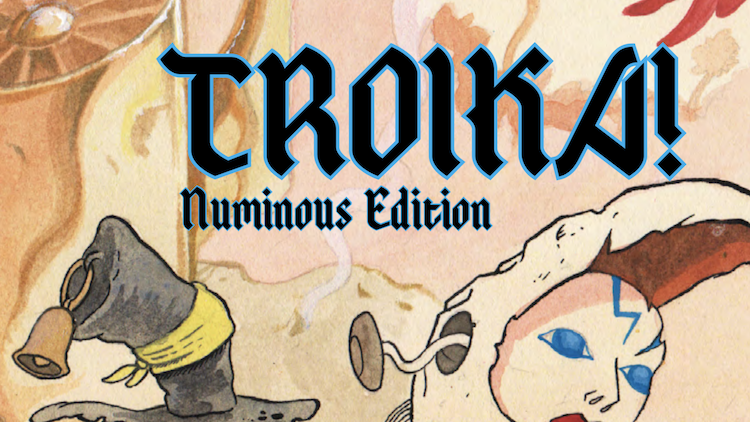
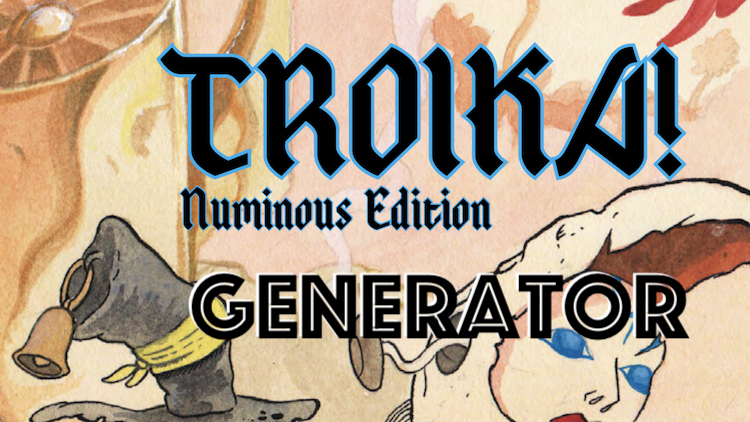
troika tweaks and flash reviews

diff --git a/_pages/troika.js b/_pages/troika.js
@@ -162,8 +162,10 @@ function flipCoin(token) {
       bgImage = "url('/images/BackToken.png')";
       coinTxt = "End Round";
       bgColor = "silver";
-      turnText = "<p style=\"margin: unset;\">" + turnNumber + ". End Round" +
-        "</p>" + turnText;
+      turnText = "<p style=\"margin: unset;\"><strong>Resolve any 'Per Round', or 'End of Round' effects.<br>Adjust the number above: adding new combatants, removing dead ones.<br>Click 'New Round'.</strong></p>" +
+      "<p style=\"margin: unset;\">" + turnNumber + ". End Round" +
+        "</p>";
+      
       break;
 
     case ("New Round"):

diff --git a/_posts/2019-03-19-FlashReviews.md b/_posts/2019-03-19-FlashReviews.md
@@ -1,94 +1,95 @@
 ---
-title: Cool Crap I've Made 
+title: Flash Reviews 
 layout: post
-date: 2019-03-18
+date: 2019-03-19
 image: images/hsi.png
 comments: true
-published: true
+published: false
 categories: Tabletop
-tags: generators supplements reviews
+tags: reviews
 ---
 
-March was a VERY productive month for me. But none of the stuff I did really made it into a blog post, so I'm going to summarize it here.
+So I have bought a LOT of stuff. And I probably won't get to read/play all of it any time soon.
 
-# [Bone Marshes](/bone-marshes)
+SO! in order to turn cleaning into content, here's a bunch of quick impressions/surface thoughts of my backlog.
 
-[![bonemarshes_KS.jpg](/images/posts/bonemarshes_KS.jpg)]((/bone-marshes))
+I will label every item as one of:
 
-Progress continues apace! I've been doing some cool video-workshops with [Joe Banner](https://joebanner.co.uk/), our layout wizard.
+- **Will Play.** I'll play this eventually, and will review it after I play it once or twice.
+- **Will Review.** I'll read it later and post a longer review on my site. Might play, might not.
+- **Archive.** I'm going to move it to the archive for now. Maybe I'll pick it up again, maybe not. Nothing really grabbed me.
+- **Delete.** Definitely won't ever read or play this. Sadness.
 
-**[Workshop 1](https://www.youtube.com/watch?v=HHT_WURk3NY)**
+These labels are NOT a reflection of quality, just my interest in playing/reading/reviewing them further. I only have so much time. For some reason or another I bought them; so if they are on this list, they piqued my interest already.
 
-**[Workshop 2](https://www.youtube.com/watch?v=QnF6Y6mpfrs)**
+If I miss something, or get things completely wrong, let me know in the comments! I'd love an excuse to take a closer look at this stuff.
 
-I enjoy these discussions, and hopefully it's a good peek behind the curtain of where Bone Marshes is going.
+## Troika! (Will Play)
 
-I'm also planning to re-do all of the maps to make them more defined and clear.
+This thing is wildly imaginative! Holy crap. Flavor and lore ooze out of every page, and drop down all over my brain. _That was a weird sentence...whatever, just keep going._
 
-OH! And I have an idea for making the Cattail Bandits more fleshed out and interesting. Probably will do a future blogpost on that.
+Not only are the classes brilliant, but the creature and spell descriptions are amazing! listen to the description for "Darksee":
 
-# [Reviews](/david/extremely-interesting-adventures)
+> "The wizard reaches into their sockets and extricates their eyes. Thus freed, the dark void behind can see perfectly well in pitch blackness and suffer excruciating pain in light (-4 penalty to all rolls). Be careful not to lose those eyeballs as re-inserting them is the only way to end the Spell."
 
-Been playing a LOT of RPGs lately, and was able to add a bunch of new adventure reviews! So that's nice.
+I can't wait to get this to the table. I also made a fancy [generator/turn tracker](/troikagenerator) for it!
 
-- [The Sunken Fort](/david/extremely-interesting-adventures#the-sunken-fort)
-- [The Mysterious Menagerie of Doctor Orville Boros](/david/extremely-interesting-adventures#the-mysterious-menagerie-of-doctor-orville-boros)
-- [Stygian Garden of Abelia Prymm](/david/extremely-interesting-adventures#stygian-garden-of-abelia-prymm)
+## TinyDungeon 2E (Archive)
 
-# Random Generators
+This made the rounds on KS, and while nothing really grabbed me at first I've been curious to check it out.
 
-Ah, my recent obsession. I made a nice, mobile friendly character generator for Bone Marshes and then I just...kept...making them! While there are a lot of random generators and tables out there, very few look nice on mobile screens, so I wanted to focus on that aspect.
+Mechanics are simple, almost boringly so. Roll 1d6, 2d6, or 3d6 depending on skills and penalties. If any of the dice land on 5 or 6 you succeed. Successful attacks deal 1 damage. Traits grant additional powers or advantages. 
 
-## [Monster Parts](/monsterparts)
+Most of the value in the book comes from the 20 "micro-settings". These tweak the rules a bit, are set in different worlds/realities/timezones.
 
-[![monsterparts.jpg](/images/monsterparts.jpg)](/monsterparts)
+It looks....boring. But maybe some of the microsettings are fun. I would grab this if I wanted to play a REALLY simple RPG. Archived.
 
-I was taking with Curio on the Knave Discord about monsters. We wanted to brainstorm some interesting creatures ideas and maybe come up with some kind of bestiary or list of creatures.
+## Spire (Will Review)
 
-Curio mentioned that they would like a random generator of monster characteristics and I agreed wholeheartedly. Curio came up with most of the content, and did most of the work; I just made the generator and hosted it.
+Gosh this book is pretty. The artwork by Adrian Stone sold me completely. 
 
-But I'm still proud of what we made, and hope it inspires a lot of cool creatures!
+Although I like it I don't know if I'll play it. It has a darker tone than something like Blades in the Dark (one of my faves). Dark to the point of heaviness. I can see this bringing up some deep issues during play.
 
-## [Hot Springs Island Generator](/hotspringsgenerator)
+And that is not a bad thing! But often I play with co-workers or strangers; not a lot of room for depth. Definitely want to give it a good read-through!
 
-[![hsi.png](/images/hsi.png)](/hotspringsgenerator)
+## Nightmares Underneath (Delete)
 
-You already know I'm a HUGE fan of Hot Springs Island. It's the one campaign I've played the most, and enjoyed the most. So wildly imaginative, easy to use, and plain fun.
+I actualy like a lot of things about this book, but mostly the concept: Dungeons are actually portals to nightmares that must be explored and closed.
 
-But rolling up encounters is a pain. Lots of tables, lots of potential outcomes. I've been wanting a better generator for a looong time. And now I have one!
+Very cool.
 
-## [Troika Character Generator and Turn Tracker](/troikagenerator)
+But the book seems overly complex and fiddly for most of the stuff I play. 
 
-[![troika.png](/images/troika.png)](/troikagenerator)
+Patrick Stuart did a better review (and more complete) [here](http://falsemachine.blogspot.com/2017/04/a-review-of-nightmares-underneath-by.html).
 
-So this is a weird one. Here's the sequence of events:
+## Macchiato Monsters (Delete)
 
-1. Hear about Troika. Mental note to read later.
-2. Forget mental note.
-3. Hear about new edition of Troika. Mental note to back.
-4. Forget mental note.
-5. New edition comes out. Looks beautiful, fresh, hilarious.
-6. Decide to make a quick generator for this new game, see if I can draw all the new Troika fans to my website.
-7. Read the book.
-8. Definitely gonna make a character generator....but what's this? WEIRD INITIATIVE RULES! WOW! Tokens in bags coolness.
-9. Don't have any tokens. Sadness.
-10. IDEA! I'll make a nice initiative tracker for mobile devices.
-11. Spend 10 hours making a stupid coin-flip animation.
-12. Finish the rest of the generator/tracker soon after.
-13. Profit?!
+I wanted to like this more. But I've read SO MANY OSR systems over the past 6 months that it takes a lot to jump out an grab me. 
 
-If you don't know anything about Troika, generator a few characters to get a feel for the humor/creativity of this awesome game. If you like Troika, then I hope you find this tool useful.
+Sorry Macchiato Monsters. It looks like a solid game, all the bells and whistles. But nothing that exploded my brain and made me want to run to the table. 
 
-That's all for generators (in March anyway). What else?
+## Red Markets (Delete)
 
-# Gambling mini-game
+I was never really into zombie survival games, but an RPG based around econonics intrigued me. Sadly it seems REALLY fiddly and book-keepy. Not that I should be surprised...I don't really know what I was expecting.
 
-This is a small thing, but our group had so much fun with it that I wanted to share. It's built for a shady/unfair kind of gambling casino thing.
+HOWEVER! The first 100 pages or so are an incredible short-story about how The Crash happened, and what the world looks like now. I read that whole section and couldn't tear myself away. If you like zombie fiction, it's worth the purchase just for the introduction.
 
-The best part about these rules is that while a single player CAN win big, over time the house pretty much takes everything.
+## Into the Wyrd and Wild (Will Play)
 
-PROTIP: Don't tell your players about the cash-out price until they try to cash out. It really drives home how unfair this place is!
+I already wrote a random generator for this...just waiting for it to be publicly available before I write a longer review and take it for a spin.
 
-You can find the [PDF of these gambling rules here](/files/HotSpringsReference.pdf).
+## Ravenloft - I6, AD&D (Will Play)
 
-![tranquilgambling.png](/images/posts/tranquilgambling.png)
+I want to play this so bad. I might tweak some of the encounter tables to make it more spicy...but still. 
+
+That castle map is GORGEOUS! and I want to try it. 
+
+SOOOOON! Hopefully.
+
+## Expedition to Barrier Peaks (Archive)
+
+I bought this one after I read Ravenloft. Oh man. These maps are UGLY, and the text is UGLY and the paragraphs are HUUUGE! I would basically have to re-write this whole thing to use it at the table. 
+
+No thanks. 
+
+## 
